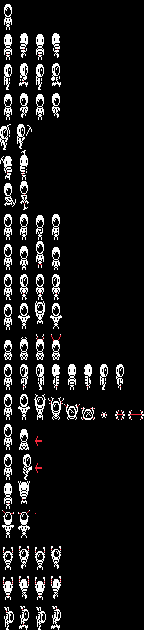
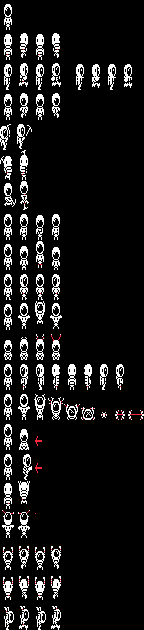
push frames: sync to canonical sprite sheet
FRAME_PUSH1/2/4 painted onto astronaut-guy-sheet-v10.png (blank area
beside the walk cycle) and cross-referenced with // sheet: comments,
so they're no longer code-only like WALK2-4 currently are.

diff --git a/main/sprites.c b/main/sprites.c
@@ -1478,8 +1478,12 @@ const unsigned char shape_FRAME_WALK4[] = {
 // Hand-authored push-cycle frames: exact duplicates of the walk cycle above (same order --
 // FRAME_NEW_X004_Y064, WALK2, WALK3, WALK4), just with row 13 (already the shoulder/arm-swing
 // row in each original) widened to a full-width horizontal dash, standing in for both arms
-// braced straight out against whatever's being shoved. See FRAME_PUSH1's own comment
-// (sprites.h) for why this exists instead of an imported sheet pose.
+// braced straight out against whatever's being shoved. There was no push pose on the artist's
+// sheet to import, so this was drawn directly in code, then painted onto
+// astronaut-guy-sheet-v10.png itself (blank area right of the walk cycle) so the sheet stays
+// the source of truth -- see the "// sheet:" comments below.
+// sheet: astronaut-guy-sheet-v10.png @ (76,64)
+// sheet: astronaut-guy-sheet-v10.png @ (108,64)
 const unsigned char shape_FRAME_PUSH1[] = {
 
     26,
@@ -1515,6 +1519,7 @@ const unsigned char shape_FRAME_PUSH1[] = {
                                                 //      +-------------+
 };
 
+// sheet: astronaut-guy-sheet-v10.png @ (92,64)
 const unsigned char shape_FRAME_PUSH2[] = {
 
     24,
@@ -1548,6 +1553,11 @@ const unsigned char shape_FRAME_PUSH2[] = {
                                                 //      +-------------+
 };
 
+// DUPLICATE: pixel-identical to FRAME_PUSH1 (frame 1/4 of the same cycle), same as
+// FRAME_NEW_X004_Y064/WALK3 above -- kept as its own array/frame identity for the animation
+// program, but the sheet importer's colour-blind matching can only attribute the sheet pose to
+// one of the two names, so this one has no "// sheet:" line of its own (its sheet occurrence
+// at (108,64) is recorded against FRAME_PUSH1 instead).
 const unsigned char shape_FRAME_PUSH3[] = {
 
     26,
@@ -1583,6 +1593,7 @@ const unsigned char shape_FRAME_PUSH3[] = {
                                                 //      +-------------+
 };
 
+// sheet: astronaut-guy-sheet-v10.png @ (124,64)
 const unsigned char shape_FRAME_PUSH4[] = {
 
     24,
